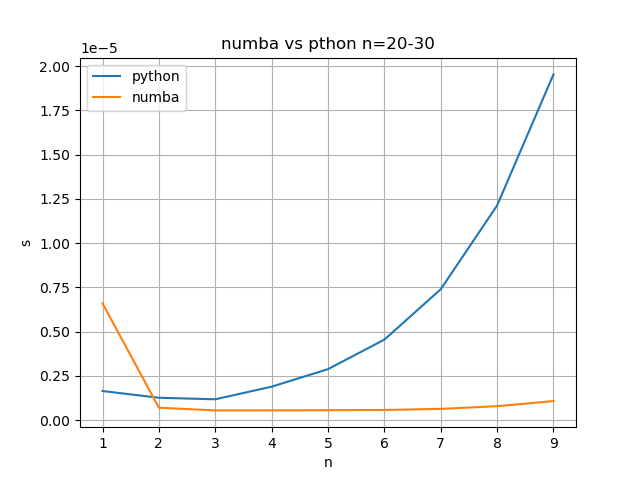
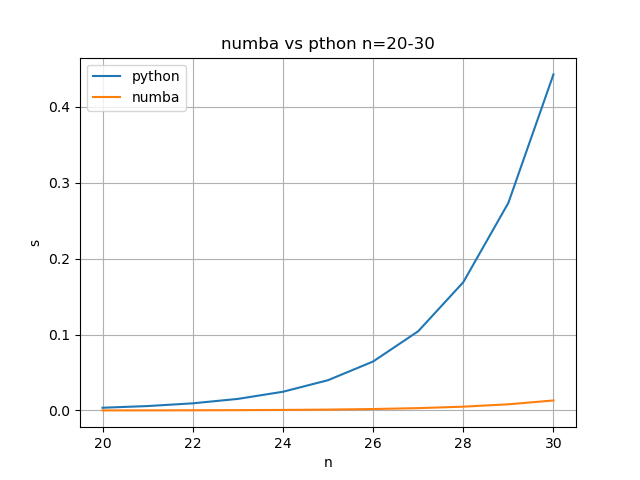
all new files!

diff --git a/MA4_2.py b/MA4_2.py
@@ -1,5 +1,6 @@
 #!/usr/bin/env python3
 
+from numba import njit
 from person import Person
 import matplotlib.pyplot as plt
 from time import perf_counter as pc
@@ -11,31 +12,73 @@ def fib_py(n):
 	else:
 		return (fib_py(n-1)+fib_py(n-2))
 
+@njit
+def fib_numba(n):
+	if n<=1:
+		return n
+	else:
+		return (fib_numba(n-1)+fib_numba(n-2))
+
 
 
 def main():
 	t_py = []
 	t_c = []
-	for i in range(2, 10):
+	t_n = []
+
+	for i in range(31, 46, 2):
 		t1 = pc()
 		f = Person(i)
 		f.fib()
 		t2 = pc()
 		fib_py(i)
 		t3 = pc()
+		fib_numba(i)
+		t4 = pc()
 		t_py.append(t3-t2)
 		t_c.append(t2-t1)
-	n = [*range(2, 10)]
+		t_n.append(t4-t3)
+
+	plt.figure(1)
+	n = [*range(31, 46, 2)]
 	fig, axis = plt.subplots()
 	axis.plot(n, t_py, label='Python')
-	axis.plot(n, c_py, label='C++')
+	axis.plot(n, t_c, label='C++')
+	axis.plot(n, t_n, label='numba')
 	axis.legend()
 	axis.set(xlabel='n', ylabel='seconds (s)', title='c++ vs python (fib)')
 	axis.grid()
-	fig.savefig('test.png')
-	plt.show()
-	f = Person(11)
-	print(f'f.fib() with n=47: {f.fib()}')
+	fig.savefig('pyCnu30-45.png')
+
+
+	tjutre_py  = []
+	tjutre_nu = []
+	for i in range(20,31):
+		t1 = pc()
+		fib_py(i)
+		t2 = pc()
+		fib_numba(i)
+		t3 = pc()
+		tjutre_py.append(t2-t1)
+		tjutre_nu.append(t3-t2)
+	plt.figure(2)
+	n = [*range(20,31)]
+	fig, axis = plt.subplots()
+	axis.plot(n, tjutre_py, label='python')
+	axis.plot(n, tjutre_nu, label='numba')
+	axis.legend()
+	axis.set(xlabel='n', ylabel='s', title='numba vs pthon n=20-30')
+	axis.grid()
+	fig.savefig('20-30.png')
+
+
+	#f = Person(47)
+	#print(f'n=47 with c++: {f.fib()}, with numba: {fib_numba(47)} ')
+#f.fib() (C++) with n=47: -1323752223, numba gives 2971215073
+# integer overflow for C++ but not for numbah
+# so it goes over
+
+
 
 
 if __name__ == '__main__':

diff --git a/person.py b/person.py
@@ -9,6 +9,8 @@ class Person(object):
 		lib.Person_get.argtypes = [ctypes.c_void_p]
 		lib.Person_get.restype = ctypes.c_int
 		lib.Person_set.argtypes = [ctypes.c_void_p,ctypes.c_int]
+		lib.Person_fib.argtypes = [ctypes.c_void_p]
+		lib.Person_fib.restype = ctypes.c_int
 		lib.Person_delete.argtypes = [ctypes.c_void_p]
 		self.obj = lib.Person_new(age)
 
@@ -17,6 +19,9 @@ class Person(object):
 
 	def set(self, age):
 		lib.Person_set(self.obj, age)
-        
+
+	def fib(self):
+		return lib.Person_fib(self.obj)
+
 	def __del__(self):
 		return lib.Person_delete(self.obj)

diff --git a/person.cpp b/person.cpp
@@ -24,8 +24,8 @@ void Person::set(int n){
 	age = n;
 	}
 
-long long int Person::person(){
-	return _fib(val);
+long long int Person::fib(){
+	return _fib(age);
 	}
 
 long long int Person::_fib(int n){
